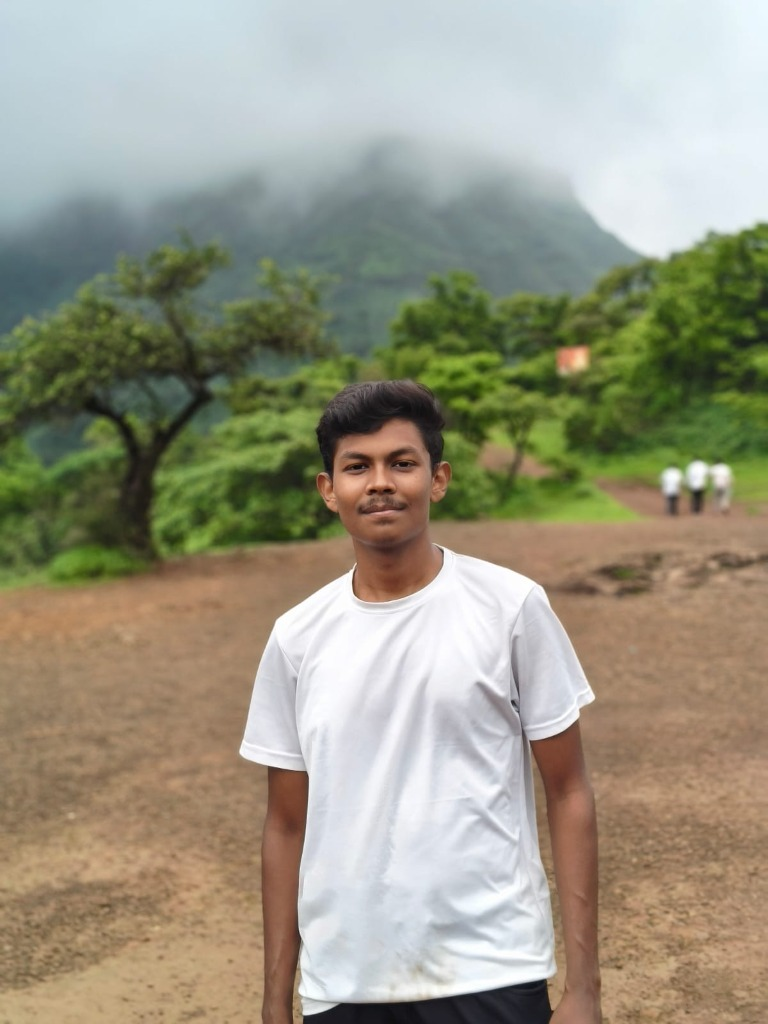
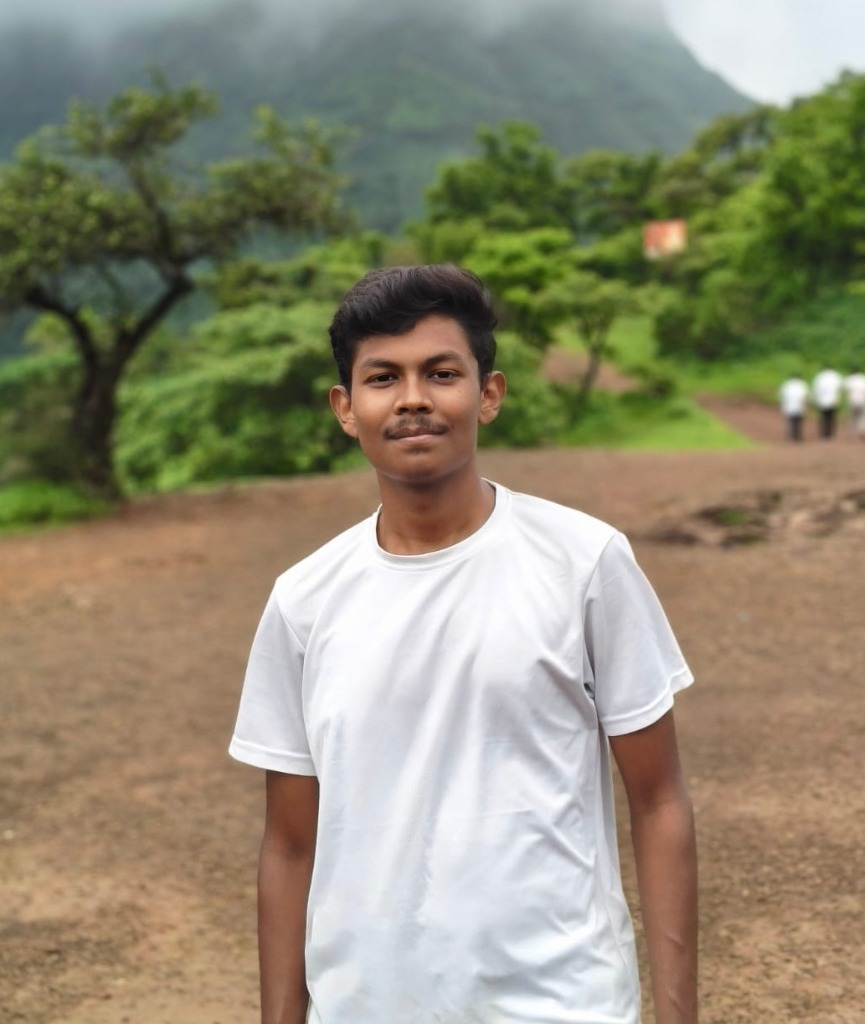
Adjust outer hero image container box to fit full vertical photo

diff --git a/style.css b/style.css
@@ -632,9 +632,8 @@ body {
 .hero-img {
   width: 100%;
   max-width: 380px;
-  aspect-ratio: 1;
+  height: auto;
   object-fit: cover;
-  object-position: top;
   border-radius: calc(var(--radius-xl) - 8px);
   border: 1px solid var(--glass-border);
   filter: drop-shadow(0 15px 35px rgba(0,0,0,0.3));
